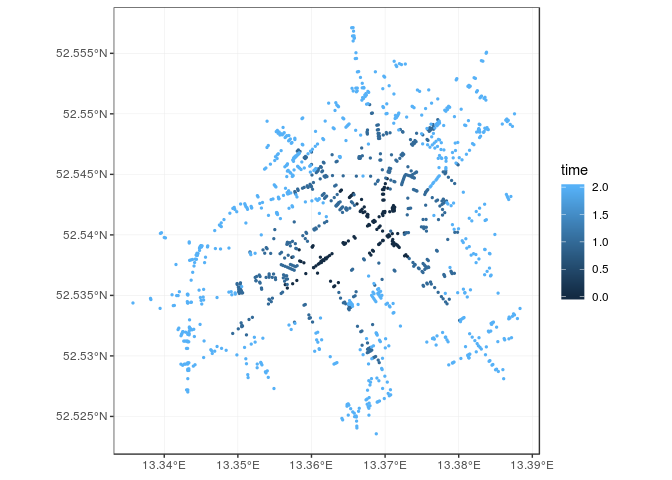
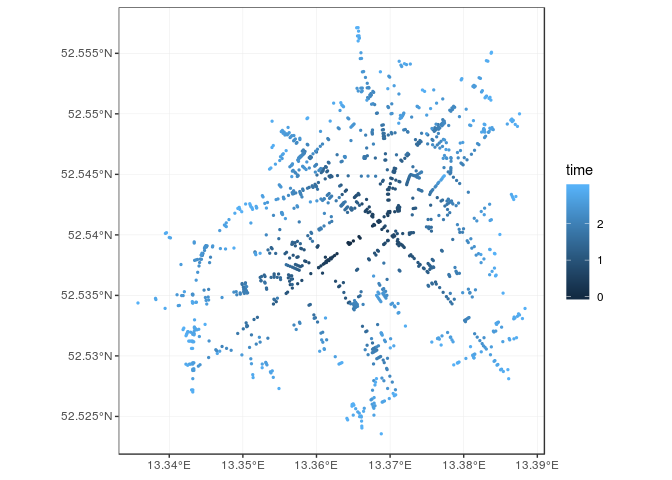
Update

diff --git a/README.md b/README.md
@@ -107,7 +107,7 @@ start_point <- c(52.53961, 13.36487)
 
 points_sf <- gh_get_spt(start_point, time_limit = 180) %>%
   gh_as_sf() %>%
-  dplyr::mutate(time = as.integer(time / 1000 / 60))
+  dplyr::mutate(time = (time / 1000 / 60))
 
 ggplot() +
   geom_sf(data = points_sf, aes(colour = time), size = 0.5) +
@@ -119,11 +119,13 @@ ggplot() +
 Also query previous nodes to plot the network:
 
 ``` r
-columns <- gh_spt_columns(
+(columns <- gh_spt_columns(
   prev_longitude = TRUE,
   prev_latitude = TRUE,
   prev_time = TRUE
-)
+))
+#> [1] "longitude"      "latitude"       "time"           "distance"      
+#> [5] "prev_longitude" "prev_latitude"  "prev_time"
 
 lines_sf <- gh_get_spt(end_point, time_limit = 240, columns = columns) %>%
   dplyr::mutate(mean_time = ((time + prev_time) / 2) / 1000 / 60) %>%
